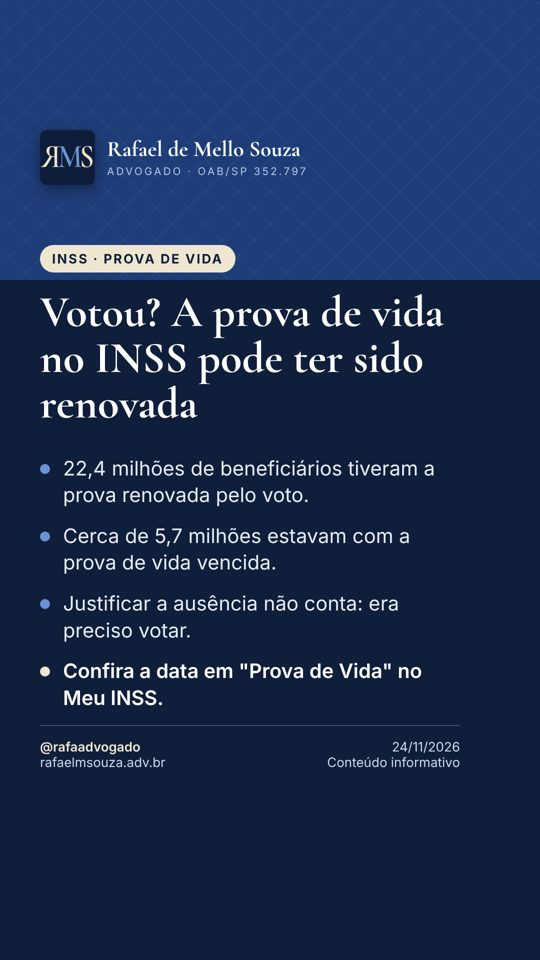
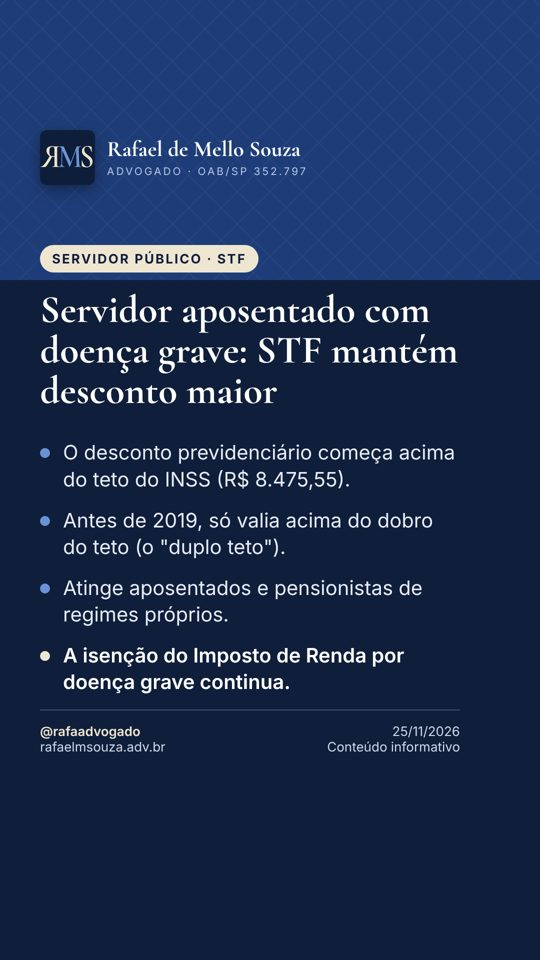
Notícia 25/11/2026: STF mantém fim do duplo teto para servidor aposentado com doença grave
Claude-Session: https://claude.ai/code/session_01TjRXWga78bz1b3B69nQ2d7

diff --git a/noticias/index.html b/noticias/index.html
@@ -14,4 +14,4 @@ h1{font-family:Georgia,serif;color:#0f1e3a;font-size:28px;line-height:1.25;margi
 .btn.s{background:#fff;color:#0f1e3a;border:1px solid #e3dccb}.lista a{text-decoration:none}.lista div{border-top:1px solid #e3dccb;padding:14px 0}.lista div:first-child{border-top:0}.lista h2.mes{font-size:15px;text-transform:uppercase;letter-spacing:.04em;color:#8a6d2b;margin:22px 0 4px;padding-top:10px;border-top:2px solid #e3dccb}.lista h2.mes:first-child{margin-top:4px}
 footer{text-align:center;font-size:13px;color:#5d6676;padding:10px 16px 30px}</style></head><body>
 <header><a href="/"><img src="/icon.png" alt=""></a><a href="/"><div class="n">Rafael de Mello Souza</div><div class="o">ADVOGADO · OAB/SP 352.797</div></a></header>
-<nav><a href="/#inicio">Início</a><a href="/#quem-somos">Quem somos</a><a href="/noticias/">Notícias</a><a href="/#consulta">Consultar processo</a></nav><main><div class="card"><h1>Notícias</h1><p class="sub">INSS, previdência dos servidores públicos e direito público, todos os dias.</p><div class="lista"><h2 class="mes" id="2026-11">Novembro de 2026 <span class="sub">· 15 notícias</span></h2><div><span class="d">24/11/2026</span><h2><a href="/noticias/2026-11-24-inss-prova-de-vida-voto-eleicoes-2026.html">Prova de vida do INSS: voto nas eleições de 2026 renovou a de 22,4 milhões</a></h2><span class="sub">Segundo dados da Dataprev divulgados em 23/11/2026, 22,4 milhões de aposentados, pensionistas e outros beneficiários do INSS tiveram a prova de vida renovada automaticamente…</span></div><div><span class="d">23/11/2026</span><h2><a href="/noticias/2026-11-23-stf-milagre-contribuicao-unica-divisor-minimo-tema-1499.html">STF vai julgar o &quot;milagre da contribuição única&quot; na aposentadoria (Tema 1.499)</a></h2><span class="sub">O Supremo Tribunal Federal reconheceu a repercussão geral do Tema 1.499 (RE 1.624.991) e vai decidir se é válido calcular a aposentadoria com base em uma única contribuição de…</span></div><div><span class="d">20/11/2026</span><h2><a href="/noticias/2026-11-20-inss-calendario-pagamento-novembro-biometria.html">Pagamento do INSS de novembro começa na terça (24); falta de biometria não bloqueia benefício</a></h2><span class="sub">A folha de novembro do INSS começa a ser paga na terça-feira, 24/11, e vai até 7/12. Para quem recebe até um salário mínimo, a data segue o último número do benefício antes do…</span></div><div><span class="d">19/11/2026</span><h2><a href="/noticias/2026-11-19-inss-exigencia-30-dias-portaria-1363.html">INSS: quem recebe exigência tem 30 dias para entregar documentos</a></h2><span class="sub">A Portaria DIRBEN/INSS nº 1.363/2026, publicada no Diário Oficial em 16/11/2026 e já em vigor, deixou claro o prazo para cumprir as exigências do INSS: quando o instituto pede um…</span></div><div><span class="d">18/11/2026</span><h2><a href="/noticias/2026-11-18-aposentadoria-regras-transicao-2027.html">Aposentadoria do INSS: duas regras de transição ficam mais exigentes em 2027</a></h2><span class="sub">Em 1º de janeiro de 2027, duas regras de transição da Reforma da Previdência sobem de patamar. Na regra dos pontos (idade + tempo de contribuição), a exigência passa de 93 para 94…</span></div><div><span class="d">17/11/2026</span><h2><a href="/noticias/2026-11-17-bpc-nao-pode-contribuir-facultativo-baixa-renda.html">Quem recebe BPC não pode pagar o INSS como baixa renda (5%)</a></h2><span class="sub">Quem recebe o BPC/LOAS pode contribuir para o INSS, mas não na modalidade de facultativo de baixa renda, com alíquota de 5%. Em 16/10/2026, a Turma Regional de Uniformização dos…</span></div><div><span class="d">16/11/2026</span><h2><a href="/noticias/2026-11-16-14-salario-inss-nao-aprovado-2026.html">14º salário do INSS: não há pagamento previsto em 2026</a></h2><span class="sub">Mensagens nas redes sociais falam em um &quot;14º salário&quot; para aposentados e pensionistas ainda neste ano, mas não existe lei que autorize esse pagamento. Há projetos sobre o tema na…</span></div><div><span class="d">13/11/2026</span><h2><a href="/noticias/2026-11-13-13-salario-proporcional-novos-beneficios-inss.html">Começou a receber do INSS depois de abril? O 13º vem na folha de novembro</a></h2><span class="sub">Quem passou a receber aposentadoria, pensão por morte, auxílio-acidente ou auxílio por incapacidade temporária a partir de maio de 2026 não entrou na antecipação do 13º feita em…</span></div><div><span class="d">12/11/2026</span><h2><a href="/noticias/2026-11-12-stf-vai-julgar-calculo-aposentadoria-pcd-tema-1497.html">STF vai julgar o cálculo da aposentadoria da pessoa com deficiência</a></h2><span class="sub">O STF reconheceu, por unanimidade, a repercussão geral do Tema 1497, que discute como deve ser calculada a aposentadoria da pessoa com deficiência depois da Reforma da…</span></div><div><span class="d">11/11/2026</span><h2><a href="/noticias/2026-11-11-inss-auxilio-doenca-negado-atestmed-reanalise-10-dias.html">Auxílio-doença negado pelo Atestmed: INSS abre reanálise em 10 dias</a></h2><span class="sub">Quem teve o auxílio por incapacidade temporária (antigo auxílio-doença) negado só pela análise de documentos do Atestmed pode pedir uma reanálise em até 10 dias, contados da…</span></div><div><span class="d">10/11/2026</span><h2><a href="/noticias/2026-11-10-stf-tema-1497-calculo-aposentadoria-pessoa-com-deficiencia.html">STF decide hoje se julgará o cálculo da aposentadoria da pessoa com deficiência</a></h2><span class="sub">Termina hoje (10/11) a votação no Plenário Virtual do STF sobre a repercussão geral do Tema 1497 (RE 1.597.638), que discute os critérios de cálculo da aposentadoria da pessoa com…</span></div><div><span class="d">10/11/2026</span><h2><a href="/noticias/2026-11-10-podcast-aposentadoria-especial-sem-idade-minima.html">Podcast: aposentadoria especial sem idade mínima após decisão do STF</a></h2><span class="sub">Novo episódio do podcast explica a decisão do STF na ADI 6309, que derrubou a idade mínima de 55, 58 e 60 anos criada pela Reforma da Previdência para a aposentadoria especial. O…</span></div><div><span class="d">10/11/2026</span><h2><a href="/noticias/2026-11-10-inss-piso-aposentadoria-2027-1741.html">INSS: piso das aposentadorias deve ir a R$ 1.741 em 2027</a></h2><span class="sub">O Orçamento de 2027 enviado pelo governo prevê salário mínimo de R$ 1.741, R$ 120 a mais que os R$ 1.621 atuais (alta de cerca de 7,4%). Aposentadorias, pensões e o BPC de um…</span></div><div><span class="d">09/11/2026</span><h2><a href="/noticias/2026-11-09-inss-biometria-bloqueio-falso.html">INSS: é falso que benefício será bloqueado sem biometria em novembro</a></h2><span class="sub">Circulam mensagens dizendo que aposentadorias e pensões serão bloqueadas em 20 de novembro por falta de biometria. O INSS informa que não existe prazo geral desse tipo: a…</span></div><div><span class="d">08/11/2026</span><h2><a href="/noticias/2026-11-08-calendario-novembro.html">INSS: pagamentos de novembro começam no dia 24</a></h2><span class="sub">Os benefícios referentes a novembro começam a ser pagos em 24/11 para quem recebe até um salário mínimo e em 1º/12 para quem recebe acima disso. Os depósitos vão até 7 de…</span></div></div></div></main><footer>Rafael de Mello Souza · Advogado · OAB/SP nº 352.797<br>© 2026 Rafael de Mello Souza – Advocacia. Todos os direitos reservados.<br>Site e sistema desenvolvidos por Rafael de Mello Souza.<br>Conteúdo informativo, não constitui consultoria jurídica. Cada caso tem particularidades. · <a href="/privacidade.html">Privacidade</a></footer></body></html>
+<nav><a href="/#inicio">Início</a><a href="/#quem-somos">Quem somos</a><a href="/noticias/">Notícias</a><a href="/#consulta">Consultar processo</a></nav><main><div class="card"><h1>Notícias</h1><p class="sub">INSS, previdência dos servidores públicos e direito público, todos os dias.</p><div class="lista"><h2 class="mes" id="2026-11">Novembro de 2026 <span class="sub">· 16 notícias</span></h2><div><span class="d">25/11/2026</span><h2><a href="/noticias/2026-11-25-stf-servidor-aposentado-doenca-grave-duplo-teto-adi-6336.html">Servidor aposentado com doença grave: STF mantém fim do &quot;duplo teto&quot; na contribuição</a></h2><span class="sub">O Supremo Tribunal Federal concluiu o julgamento da ADI 6.336 e, por 7 votos a 3, considerou válida a regra da Reforma da Previdência de 2019 que acabou com a chamada &quot;imunidade…</span></div><div><span class="d">24/11/2026</span><h2><a href="/noticias/2026-11-24-inss-prova-de-vida-voto-eleicoes-2026.html">Prova de vida do INSS: voto nas eleições de 2026 renovou a de 22,4 milhões</a></h2><span class="sub">Segundo dados da Dataprev divulgados em 23/11/2026, 22,4 milhões de aposentados, pensionistas e outros beneficiários do INSS tiveram a prova de vida renovada automaticamente…</span></div><div><span class="d">23/11/2026</span><h2><a href="/noticias/2026-11-23-stf-milagre-contribuicao-unica-divisor-minimo-tema-1499.html">STF vai julgar o &quot;milagre da contribuição única&quot; na aposentadoria (Tema 1.499)</a></h2><span class="sub">O Supremo Tribunal Federal reconheceu a repercussão geral do Tema 1.499 (RE 1.624.991) e vai decidir se é válido calcular a aposentadoria com base em uma única contribuição de…</span></div><div><span class="d">20/11/2026</span><h2><a href="/noticias/2026-11-20-inss-calendario-pagamento-novembro-biometria.html">Pagamento do INSS de novembro começa na terça (24); falta de biometria não bloqueia benefício</a></h2><span class="sub">A folha de novembro do INSS começa a ser paga na terça-feira, 24/11, e vai até 7/12. Para quem recebe até um salário mínimo, a data segue o último número do benefício antes do…</span></div><div><span class="d">19/11/2026</span><h2><a href="/noticias/2026-11-19-inss-exigencia-30-dias-portaria-1363.html">INSS: quem recebe exigência tem 30 dias para entregar documentos</a></h2><span class="sub">A Portaria DIRBEN/INSS nº 1.363/2026, publicada no Diário Oficial em 16/11/2026 e já em vigor, deixou claro o prazo para cumprir as exigências do INSS: quando o instituto pede um…</span></div><div><span class="d">18/11/2026</span><h2><a href="/noticias/2026-11-18-aposentadoria-regras-transicao-2027.html">Aposentadoria do INSS: duas regras de transição ficam mais exigentes em 2027</a></h2><span class="sub">Em 1º de janeiro de 2027, duas regras de transição da Reforma da Previdência sobem de patamar. Na regra dos pontos (idade + tempo de contribuição), a exigência passa de 93 para 94…</span></div><div><span class="d">17/11/2026</span><h2><a href="/noticias/2026-11-17-bpc-nao-pode-contribuir-facultativo-baixa-renda.html">Quem recebe BPC não pode pagar o INSS como baixa renda (5%)</a></h2><span class="sub">Quem recebe o BPC/LOAS pode contribuir para o INSS, mas não na modalidade de facultativo de baixa renda, com alíquota de 5%. Em 16/10/2026, a Turma Regional de Uniformização dos…</span></div><div><span class="d">16/11/2026</span><h2><a href="/noticias/2026-11-16-14-salario-inss-nao-aprovado-2026.html">14º salário do INSS: não há pagamento previsto em 2026</a></h2><span class="sub">Mensagens nas redes sociais falam em um &quot;14º salário&quot; para aposentados e pensionistas ainda neste ano, mas não existe lei que autorize esse pagamento. Há projetos sobre o tema na…</span></div><div><span class="d">13/11/2026</span><h2><a href="/noticias/2026-11-13-13-salario-proporcional-novos-beneficios-inss.html">Começou a receber do INSS depois de abril? O 13º vem na folha de novembro</a></h2><span class="sub">Quem passou a receber aposentadoria, pensão por morte, auxílio-acidente ou auxílio por incapacidade temporária a partir de maio de 2026 não entrou na antecipação do 13º feita em…</span></div><div><span class="d">12/11/2026</span><h2><a href="/noticias/2026-11-12-stf-vai-julgar-calculo-aposentadoria-pcd-tema-1497.html">STF vai julgar o cálculo da aposentadoria da pessoa com deficiência</a></h2><span class="sub">O STF reconheceu, por unanimidade, a repercussão geral do Tema 1497, que discute como deve ser calculada a aposentadoria da pessoa com deficiência depois da Reforma da…</span></div><div><span class="d">11/11/2026</span><h2><a href="/noticias/2026-11-11-inss-auxilio-doenca-negado-atestmed-reanalise-10-dias.html">Auxílio-doença negado pelo Atestmed: INSS abre reanálise em 10 dias</a></h2><span class="sub">Quem teve o auxílio por incapacidade temporária (antigo auxílio-doença) negado só pela análise de documentos do Atestmed pode pedir uma reanálise em até 10 dias, contados da…</span></div><div><span class="d">10/11/2026</span><h2><a href="/noticias/2026-11-10-stf-tema-1497-calculo-aposentadoria-pessoa-com-deficiencia.html">STF decide hoje se julgará o cálculo da aposentadoria da pessoa com deficiência</a></h2><span class="sub">Termina hoje (10/11) a votação no Plenário Virtual do STF sobre a repercussão geral do Tema 1497 (RE 1.597.638), que discute os critérios de cálculo da aposentadoria da pessoa com…</span></div><div><span class="d">10/11/2026</span><h2><a href="/noticias/2026-11-10-podcast-aposentadoria-especial-sem-idade-minima.html">Podcast: aposentadoria especial sem idade mínima após decisão do STF</a></h2><span class="sub">Novo episódio do podcast explica a decisão do STF na ADI 6309, que derrubou a idade mínima de 55, 58 e 60 anos criada pela Reforma da Previdência para a aposentadoria especial. O…</span></div><div><span class="d">10/11/2026</span><h2><a href="/noticias/2026-11-10-inss-piso-aposentadoria-2027-1741.html">INSS: piso das aposentadorias deve ir a R$ 1.741 em 2027</a></h2><span class="sub">O Orçamento de 2027 enviado pelo governo prevê salário mínimo de R$ 1.741, R$ 120 a mais que os R$ 1.621 atuais (alta de cerca de 7,4%). Aposentadorias, pensões e o BPC de um…</span></div><div><span class="d">09/11/2026</span><h2><a href="/noticias/2026-11-09-inss-biometria-bloqueio-falso.html">INSS: é falso que benefício será bloqueado sem biometria em novembro</a></h2><span class="sub">Circulam mensagens dizendo que aposentadorias e pensões serão bloqueadas em 20 de novembro por falta de biometria. O INSS informa que não existe prazo geral desse tipo: a…</span></div><div><span class="d">08/11/2026</span><h2><a href="/noticias/2026-11-08-calendario-novembro.html">INSS: pagamentos de novembro começam no dia 24</a></h2><span class="sub">Os benefícios referentes a novembro começam a ser pagos em 24/11 para quem recebe até um salário mínimo e em 1º/12 para quem recebe acima disso. Os depósitos vão até 7 de…</span></div></div></div></main><footer>Rafael de Mello Souza · Advogado · OAB/SP nº 352.797<br>© 2026 Rafael de Mello Souza – Advocacia. Todos os direitos reservados.<br>Site e sistema desenvolvidos por Rafael de Mello Souza.<br>Conteúdo informativo, não constitui consultoria jurídica. Cada caso tem particularidades. · <a href="/privacidade.html">Privacidade</a></footer></body></html>

diff --git a/noticias/2026-11-25-stf-servidor-aposentado-doenca-grave-duplo-teto-adi-6336.html b/noticias/2026-11-25-stf-servidor-aposentado-doenca-grave-duplo-teto-adi-6336.html
@@ -1,0 +1,19 @@
+<!DOCTYPE html><html lang="pt-BR"><head><meta charset="utf-8">
+<meta name="viewport" content="width=device-width, initial-scale=1">
+<title>Servidor aposentado com doença grave: STF mantém fim do &quot;duplo teto&quot; na contribuição | Rafael de Mello Souza – Advogado</title><meta name="description" content="O Supremo Tribunal Federal concluiu o julgamento da ADI 6.336 e, por 7 votos a 3, considerou válida a regra da Reforma da Previdência de 2019 que acabou…"><link rel="canonical" href="https://rafaelmsouza.adv.br/noticias/2026-11-25-stf-servidor-aposentado-doenca-grave-duplo-teto-adi-6336.html">
+<meta property="og:type" content="article"><meta property="og:title" content="Servidor aposentado com doença grave: STF mantém fim do &quot;duplo teto&quot; na contribuição | Rafael de Mello Souza – Advogado"><meta property="og:description" content="O Supremo Tribunal Federal concluiu o julgamento da ADI 6.336 e, por 7 votos a 3, considerou válida a regra da Reforma da Previdência de 2019 que acabou…"><meta property="og:url" content="https://rafaelmsouza.adv.br/noticias/2026-11-25-stf-servidor-aposentado-doenca-grave-duplo-teto-adi-6336.html"><meta property="og:image" content="https://rafaelmsouza.adv.br/cartao.jpg"><meta property="og:locale" content="pt_BR">
+<link rel="icon" href="/icon.png"><meta name="theme-color" content="#0f1e3a">
+<script defer src="https://cloud.umami.is/script.js" data-website-id="e1ed7d73-fa33-4e80-996a-a7cae57abea0"></script><script type="application/ld+json">{"@context": "https://schema.org", "@type": "NewsArticle", "headline": "Servidor aposentado com doença grave: STF mantém fim do \"duplo teto\" na contribuição", "description": "O Supremo Tribunal Federal concluiu o julgamento da ADI 6.336 e, por 7 votos a 3, considerou válida a regra da Reforma da Previdência de 2019 que acabou…", "datePublished": "2026-11-25", "dateModified": "2026-11-25", "inLanguage": "pt-BR", "mainEntityOfPage": "https://rafaelmsouza.adv.br/noticias/2026-11-25-stf-servidor-aposentado-doenca-grave-duplo-teto-adi-6336.html", "image": ["https://rafaelmsouza.adv.br/cartao.jpg"], "author": {"@type": "Person", "name": "Rafael de Mello Souza", "jobTitle": "Advogado", "url": "https://rafaelmsouza.adv.br"}, "publisher": {"@type": "Organization", "name": "Rafael de Mello Souza – Advocacia", "logo": {"@type": "ImageObject", "url": "https://rafaelmsouza.adv.br/icon.png"}}}</script>
+<style>*{box-sizing:border-box}body{margin:0;background:#f7f3ea;color:#1b2333;font:17px/1.6 -apple-system,BlinkMacSystemFont,"Segoe UI",Roboto,Helvetica,Arial,sans-serif}
+a{color:#1e3d78}header{background:#0f1e3a;color:#efe6d2;padding:16px 20px;display:flex;align-items:center;gap:14px}
+header img{width:44px;height:44px;border-radius:8px}header a{color:inherit;text-decoration:none}.n{font-family:Georgia,serif;font-size:19px}.o{font-size:12px;letter-spacing:2px;color:#b9c6e4}
+nav{background:#1e3d78;display:flex;overflow-x:auto;padding:0 8px}nav a{color:#dfe7f6;text-decoration:none;padding:11px 12px;font-size:15px;white-space:nowrap}
+main{max-width:720px;margin:0 auto;padding:22px 16px 110px}article,.card{background:#fff;border:1px solid #e3dccb;border-radius:16px;padding:22px}
+h1{font-family:Georgia,serif;color:#0f1e3a;font-size:28px;line-height:1.25;margin:4px 0 10px}h2{font-family:Georgia,serif;color:#0f1e3a;font-size:20px;margin:0 0 4px}
+.d{color:#5d6676;font-size:14px;font-weight:600}.sub{color:#5d6676;font-size:14px}.btn{display:inline-block;background:#1f9d55;color:#fff;text-decoration:none;font-weight:700;padding:12px 18px;border-radius:10px;margin:10px 8px 0 0}
+.btn.s{background:#fff;color:#0f1e3a;border:1px solid #e3dccb}.lista a{text-decoration:none}.lista div{border-top:1px solid #e3dccb;padding:14px 0}.lista div:first-child{border-top:0}.lista h2.mes{font-size:15px;text-transform:uppercase;letter-spacing:.04em;color:#8a6d2b;margin:22px 0 4px;padding-top:10px;border-top:2px solid #e3dccb}.lista h2.mes:first-child{margin-top:4px}
+footer{text-align:center;font-size:13px;color:#5d6676;padding:10px 16px 30px}</style></head><body>
+<header><a href="/"><img src="/icon.png" alt=""></a><a href="/"><div class="n">Rafael de Mello Souza</div><div class="o">ADVOGADO · OAB/SP 352.797</div></a></header>
+<nav><a href="/#inicio">Início</a><a href="/#quem-somos">Quem somos</a><a href="/noticias/">Notícias</a><a href="/#consulta">Consultar processo</a></nav><main>
+<article><div class="d">25/11/2026 · Notícias</div><h1>Servidor aposentado com doença grave: STF mantém fim do &quot;duplo teto&quot; na contribuição</h1><p>O Supremo Tribunal Federal concluiu o julgamento da ADI 6.336 e, por 7 votos a 3, considerou válida a regra da Reforma da Previdência de 2019 que acabou com a chamada &quot;imunidade do duplo teto&quot;. Até 2019, o servidor aposentado ou pensionista com doença grave ou incapacitante só pagava contribuição previdenciária sobre a parte do benefício que passasse do dobro do teto do INSS. Desde a reforma, o desconto incide sobre o que passar de um teto só – hoje, R$ 8.475,55.</p><p>A decisão vale para aposentados e pensionistas de regimes próprios (servidores da União, dos Estados e dos Municípios), de acordo com as regras de cada ente, e não atinge quem é aposentado pelo INSS. A isenção do Imposto de Renda para portadores de doenças graves, prevista em lei, é outro assunto e não foi alterada. Quem recebe pelo regime próprio pode conferir no contracheque a base de cálculo da contribuição e a aplicação da isenção do IR.</p><p class="sub">Fonte: <a href="https://www.migalhas.com.br/quentes/467546/stf-valida-fim-de-isencao-para-servidores-com-doencas-graves" target="_blank" rel="noopener nofollow" data-umami-event="noticia-fonte">Migalhas – STF valida fim de isenção previdenciária para servidores com doenças graves (ADI 6.336)</a></p>
+<a class="btn" href="https://wa.me/5514996119228?text=Ol%C3%A1%2C%20Dr.%20Rafael%21%20Li%20a%20not%C3%ADcia%20%22Servidor%20aposentado%20com%20doen%C3%A7a%20grave%3A%20STF%20mant%C3%A9m%20fim%20do%20%22duplo%20teto%22%20na%20contribui%C3%A7%C3%A3o%22%20no%20seu%20site%20e%20tenho%20uma%20d%C3%BAvida." target="_blank" rel="noopener" data-umami-event="whatsapp">💬 Tirar dúvida no WhatsApp</a><a class="btn s" href="/noticias/">Ver todas as notícias</a></article></main><footer>Rafael de Mello Souza · Advogado · OAB/SP nº 352.797<br>© 2026 Rafael de Mello Souza – Advocacia. Todos os direitos reservados.<br>Site e sistema desenvolvidos por Rafael de Mello Souza.<br>Conteúdo informativo, não constitui consultoria jurídica. Cada caso tem particularidades. · <a href="/privacidade.html">Privacidade</a></footer></body></html>
